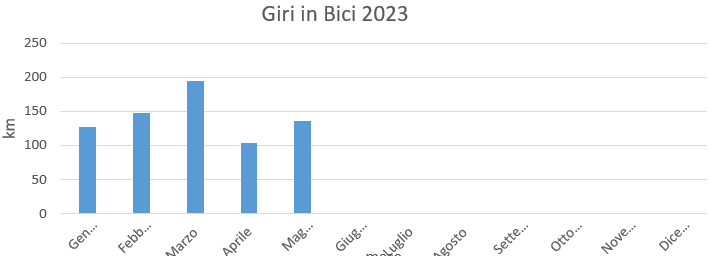
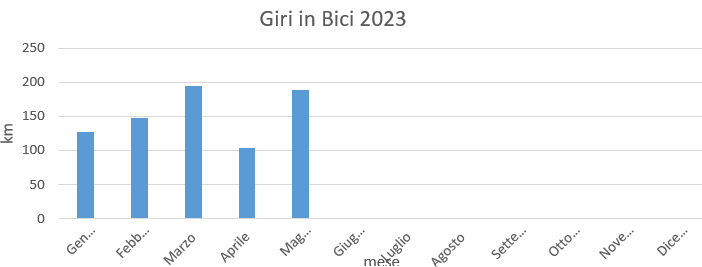
Add files via upload

diff --git a/Statistiche/Statistiche2023.html b/Statistiche/Statistiche2023.html
@@ -45,31 +45,31 @@
         <tr>
             <td>Gennaio</td>
             <td>127</td>
-            <td> 17,94%</td>
+            <td> 16,69%</td>
         </tr>
 
         <tr>
             <td>Febbraio</td>
             <td>148</td>
-            <td>20,90%</td>
+            <td>19,45%</td>
         </tr>
 
         <tr>
             <td>Marzo</td>
             <td>194</td>
-            <td>27,40%</td>
+            <td>25,49%</td>
         </tr>
 
         <tr>
             <td>Aprile</td>
             <td>103</td>
-            <td>14,55%</td>
+            <td>13,53%</td>
         </tr>
 
         <tr>
             <td>Maggio</td>
-            <td>136</td>
-            <td>19,21%</td>
+            <td>189</td>
+            <td>24,84%</td>
         </tr>
 
     </table>
@@ -79,8 +79,8 @@
     <br>
 
     <br>
-    <p>totale km 708</p>
-    <p>km medi percorsi 54,56 km </p>
+    <p>totale km 761</p>
+    <p>km medi percorsi 54,36 km </p>
     <br>
     
 

diff --git a/Statistiche.html b/Statistiche.html
@@ -82,7 +82,7 @@
             </td>
 
             <td>
-                25,6%
+                25,5%
             </td>
 
         </tr>
@@ -98,7 +98,7 @@
             </td>
 
             <td>
-                27,3%
+                27,1%
             </td>
         </tr>
 
@@ -112,7 +112,7 @@
             </td>
     
             <td>
-                39,7%
+                39,5%
             </td>
     
         </tr>
@@ -123,11 +123,11 @@
             </td>
     
             <td>
-                708
+                761
             </td>
     
             <td>
-                7,4%
+                7,9%
             </td>
     
         </tr>
@@ -139,8 +139,8 @@
     <br>
 
     <br>
-    <p>totale km fatti 9586</p>
-    <p>km medi percorsi 69,97 km </p>
+    <p>totale km fatti 9639</p>
+    <p>km medi percorsi 69,85 km </p>
     <br>
 
     <p class="corsivo">

diff --git a/Primavera/Primavera2023.html b/Primavera/Primavera2023.html
@@ -142,11 +142,22 @@
             <td>km</td>
         </tr>
 
+        <tr>
+            <td>27 Maggio</td>
+            <td>9</td>
+            <td><a
+                    href="https://www.komoot.com/it-it/tour/1136974274?share_token=aLyKmBzQeI5DmO12YbzYFqzRBEQugq65I0b8Y83qky0ljyS2Ls&ref=wtd">
+                    Fagagna</a>
+            </td>
+            <td>53</td>
+            <td>km</td>
+        </tr>
+
     </table>
 
     <br>
-    <p> totale km 433</p>
-    <p>km medi percorsi 54,13</p>
+    <p> totale km 486</p>
+    <p>km medi percorsi 54,00</p>
     <br>
 </body>
 

diff --git a/Giri.html b/Giri.html
@@ -203,8 +203,8 @@
     </table>
 
     <br>
-    <p>totale km fatti 9586</p>
-    <p>km medi percorsi 69,97 km </p>
+    <p>totale km fatti 9639</p>
+    <p>km medi percorsi 69,85 km </p>
     <br>
 
     <br>

diff --git a/Primavera.html b/Primavera.html
@@ -90,7 +90,7 @@
                 </td>
     
                 <td>
-                    433
+                    486
                 </td>
             </tr>
 

diff --git a/readme.md b/readme.md
@@ -1,10 +1,10 @@
 <h1>ogni volta aggiornare </h1>
 
-<p>KM totale ->  giri.html</p>
+<p>KM totale ->  giri.html</p> 
 <p>statistiche generali -> statistiche.html</p>
 <p>statistiche anno -> statistiche2023.html </p>
-<p>periodo -> nome stagione.html</p>
-<p>periodo interessato -> periodoanno.html</P>
+<p>periodo -> nome stagione.html</p>  
+<p>periodo interessato -> periodoanno.html</P> 
 
 <h1> Credenziali </h1>
 
